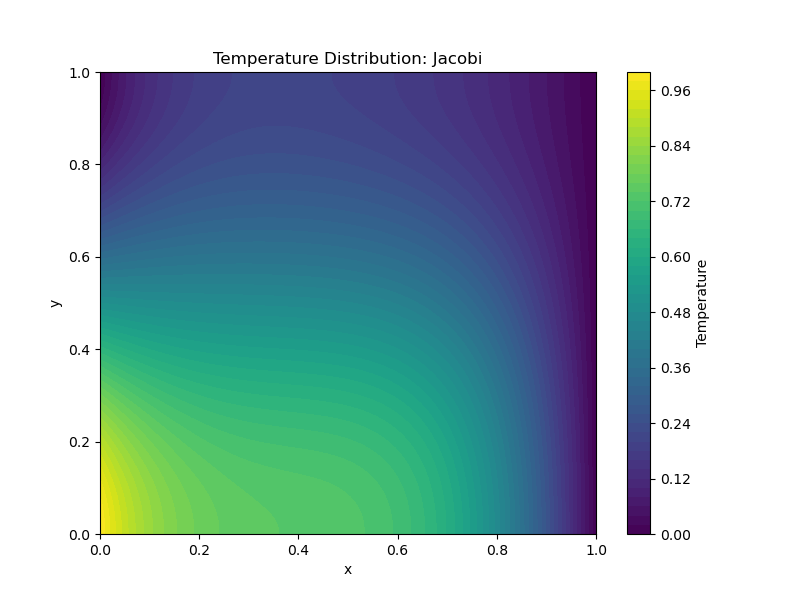
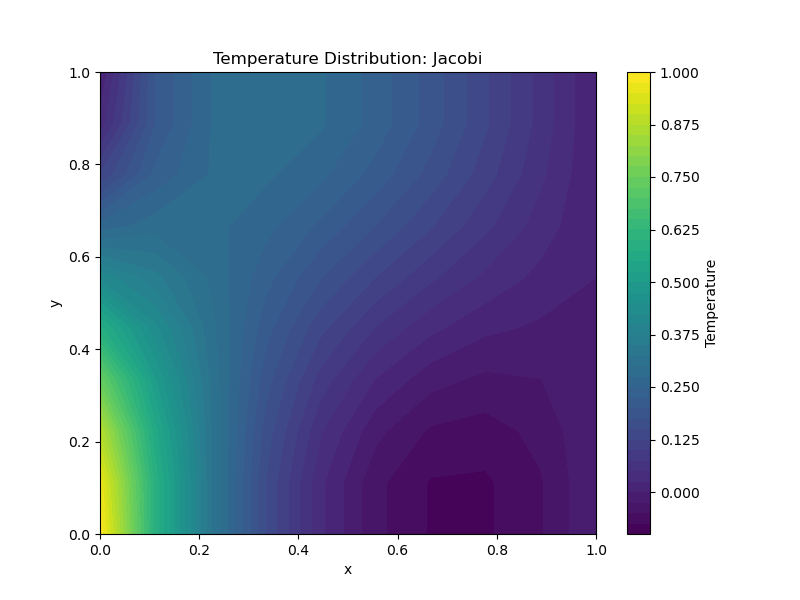
changes

diff --git a/homework2/poisson_solver.py b/homework2/poisson_solver.py
@@ -32,7 +32,7 @@ def main():
     plot_solution(x, y, T_initial, 'initial', output_file='initial_solution.png')
 
     if method == 'jacobi':
-        T = jacobi_method(x, y, h, Q, T_initial, k_max, verbose)
+        T, k = jacobi_method(x, y, h, Q, T_initial, k_max, verbose)
     elif method == 'gauss-seidel':
         # T = gauss_seidel_method(x, y, h, Q, T_initial, k_max)
         pass
@@ -40,10 +40,14 @@ def main():
         # T = sor_method(x, y, h, Q, T_initial, k_max, alpha)
         pass
 
+    if verbose:
+        print(f'{method.capitalize()} method converged in {k} iterations.')
+
     plot_solution(x, y, T, method.capitalize(), output_file=f'{method}_solution.png')
     T_analytical = (1 - x**2)*(2*y**3 - 3*y**2 + 1)
     plot_solution(x, y, T_analytical, 'analytical', output_file='analytical_solution.png')
     plot_solution(x, y, Q, 'source term Q', output_file='source_term_Q.png')
+    plot_solution(x, y, T - T_analytical, 'error', output_file='error.png')
 
 def create_grid(N):
     x = np.linspace(0, 1, N)
@@ -55,20 +59,20 @@ def jacobi_method(x, y, h, Q, T_initial, k_max, verbose):
     T_old = T_initial.copy()
     apply_boundary_conditions(x, y, T_old)
     for k in range(k_max):
-        if k < 5 and verbose:
-            print(f'Iteration {k+1}:\n{T_old}')
-            print(f'Shifted right:\n{np.pad(T_old,((0,0),(1,0)), mode="constant")[:, :-1]}')
-            print(f'Shifted left:\n{np.pad(T_old,((0,0),(0,1)), mode="constant")[:, 1:]}')
-            print(f'Shifted down:\n{np.pad(T_old,((1,0),(0,0)), mode="constant")[:-1, :]}')
-            print(f'Shifted up:\n{np.pad(T_old,((0,1),(0,0)), mode="constant")[1:, :]}')
         neighbors = (np.pad(T_old, ((0, 0), (1, 0)), mode='constant')[:, :-1]
                  + np.pad(T_old, ((0, 0), (0, 1)), mode='constant')[:, 1:]
                  + np.pad(T_old, ((1, 0), (0, 0)), mode='constant')[:-1, :]
                  + np.pad(T_old, ((0, 1), (0, 0)), mode='constant')[1:, :])
         T_new = 0.25 * (neighbors - Q * h**2)
         apply_boundary_conditions(x, y, T_new)
+
+        change = np.linalg.norm(T_new - T_old, ord=np.inf)
+        if verbose:
+            print(f'Iteration {k+1}, max change: {change:.6e}')
+        if change < 1e-6:
+            break
         T_old = T_new
-    return T_old
+    return T_old, k
 
 def apply_boundary_conditions(x, y, T):
     T[0, :] = T[1, :]
